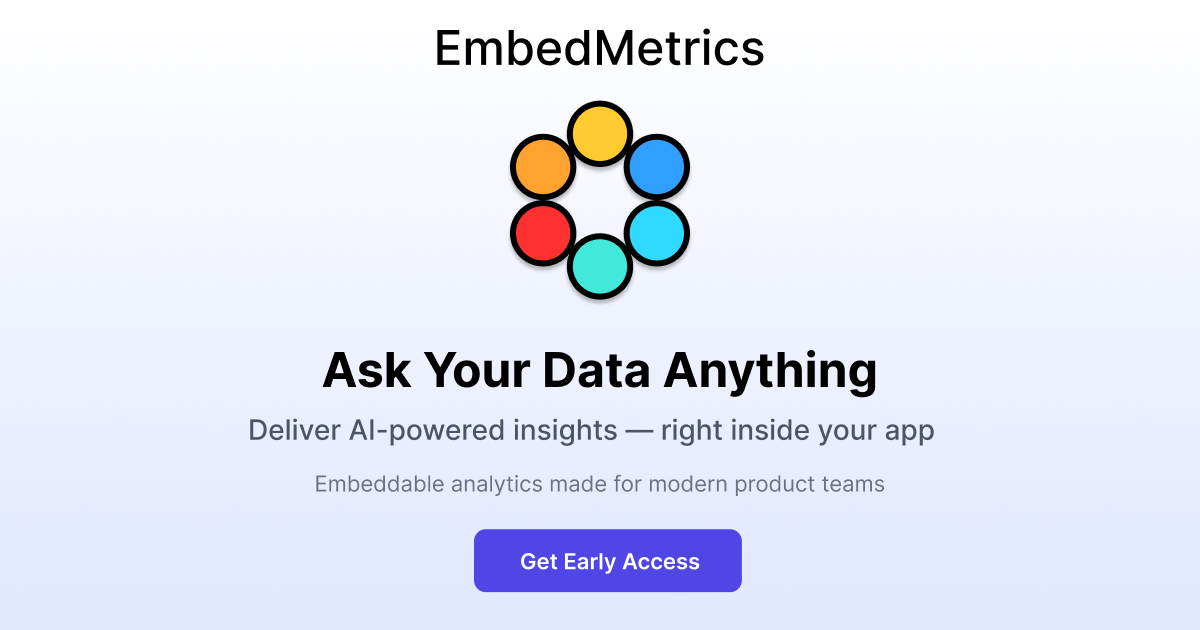
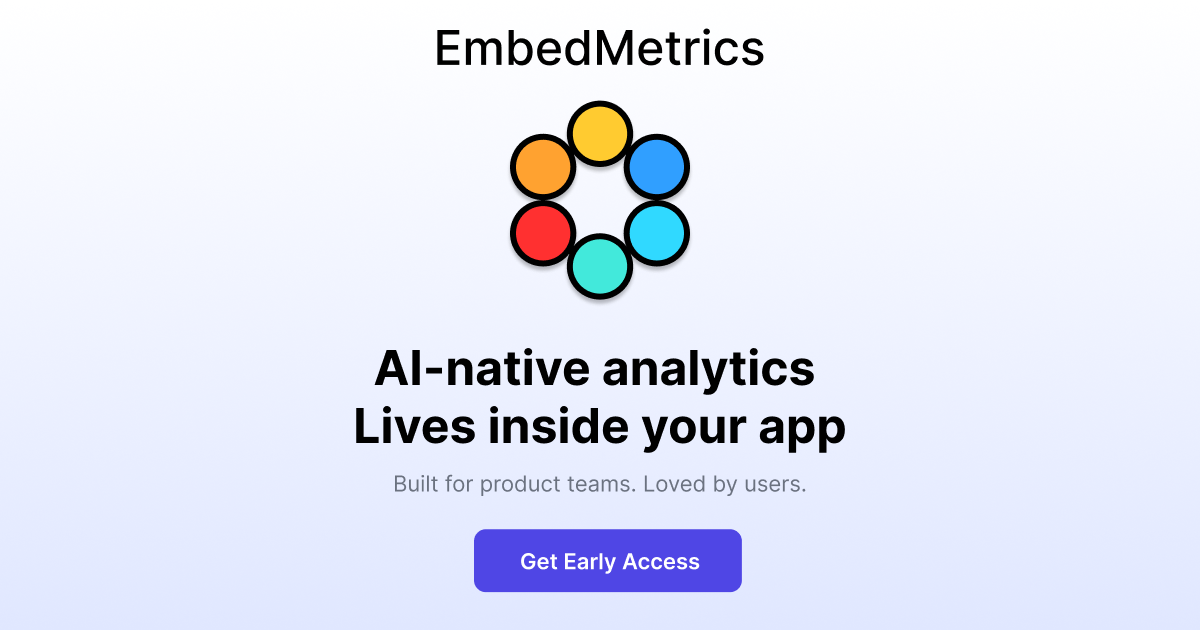
Update hero copy, Open Graph metadata, and footer social links
- Updated landing page hero section to emphasize AI-native analytics
- Refined meta tags (title and description) for SEO and social sharing
- Replaced og:image with updated preview graphic
- Added X (Twitter) link to footer alongside LinkedIn

Changed region(s): [[0.185, 0.5429, 0.7708, 0.7238], [0.2467, 0.754, 0.74, 0.7841]]

diff --git a/src/components/MetaHead.tsx b/src/components/MetaHead.tsx
@@ -4,19 +4,21 @@ export default function MetaHead() {
   return (
     <Helmet>
       <title>
-        EmbedMetrics – Embeddable Analytics for Devs. AI-Powered. Users Love It.
+        EmbedMetrics – AI-native analytics that lives inside your app
       </title>
+
       <meta
         name="description"
-        content="Embeddable analytics for devs. Embedded intelligence for your users. Deliver AI-powered insights — right inside your app."
+        content="EmbedMetrics is a smart, AI-native data assistant that lives inside your app. Built for product teams. Loved by users. No dashboards. Just answers."
       />
+
       <meta
         property="og:title"
-        content="EmbedMetrics – Embeddable Analytics for Devs. AI-Powered. Users Love It."
+        content="EmbedMetrics – AI-native analytics that lives inside your app"
       />
       <meta
         property="og:description"
-        content="Embeddable analytics for devs. Embedded intelligence for your users. Deliver AI-powered insights — right inside your app."
+        content="AI-native analytics that lives inside your app. Built for product teams. Loved by users. No dashboards. Just answers."
       />
       <meta property="og:image" content="/embedmetrics-preview.png" />
       <meta property="og:url" content="https://embedmetrics.com" />

diff --git a/src/pages/LandingPage.tsx b/src/pages/LandingPage.tsx
@@ -75,16 +75,13 @@ function LandingPage() {
                 id="hero-heading"
                 className="text-xs tracking-widest text-indigo-600 uppercase mb-2 text-center"
               >
-                Embeddable AI Analytics
+                Smart data assistant for your app
               </h2>
               <h1 className="text-xl sm:text-3xl font-bold leading-snug mb-4 text-gray-900 max-w-3xl text-center">
-                Built for Devs.
-                <br />
-                Loved by Users.
+                AI-native analytics that lives inside your app
               </h1>
               <p className="text-base sm:text-lg text-gray-600 max-w-xl mb-2 px-4 text-center">
-                Add smart, conversational analytics to your app with one line of
-                code. Delight users with intuitive answers.
+                Built for product teams. Loved by users.
               </p>
 
               <p className="text-sm text-gray-500 mb-8 px-4 text-center">

diff --git a/src/components/Footer.tsx b/src/components/Footer.tsx
@@ -1,4 +1,4 @@
-import { FaLinkedinIn } from "react-icons/fa6";
+import { FaLinkedinIn, FaXTwitter } from "react-icons/fa6";
 
 export default function Footer() {
   return (
@@ -41,6 +41,15 @@ export default function Footer() {
               className="text-indigo-600 hover:text-indigo-800 transition focus:outline-none focus:ring-2 focus:ring-indigo-500"
             >
               <FaLinkedinIn className="w-5 h-5" />
+            </a>
+            <a
+              href="https://x.com/EmbedMetrics"
+              target="_blank"
+              rel="noopener noreferrer"
+              aria-label="X"
+              className="text-indigo-600 hover:text-indigo-800 transition focus:outline-none focus:ring-2 focus:ring-indigo-500"
+            >
+              <FaXTwitter className="w-5 h-5" />
             </a>
           </div>
         </div>
